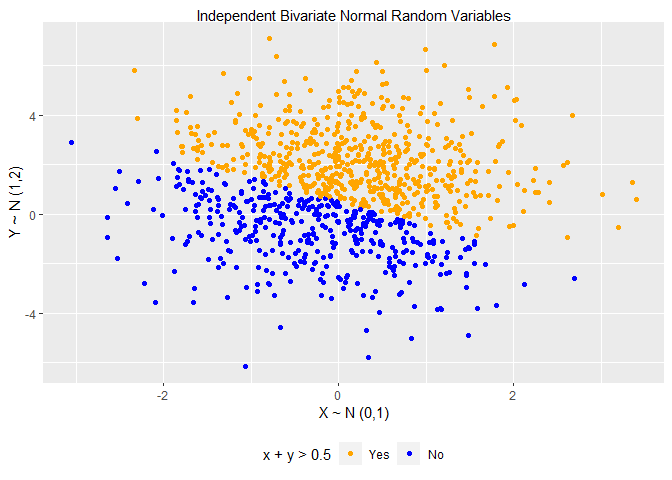
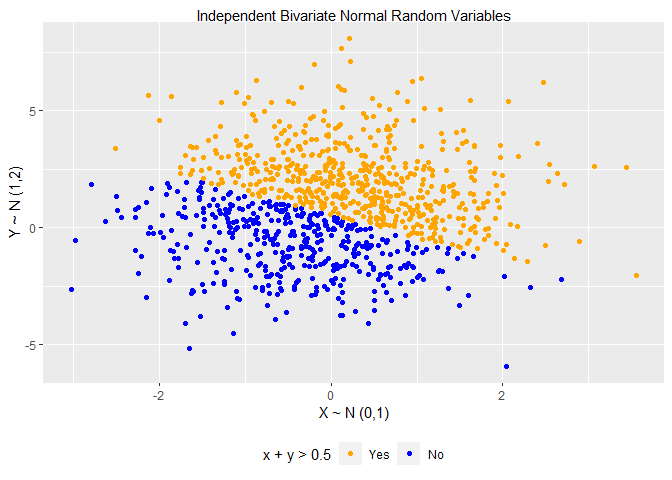
git add *

diff --git a/pubh7462_hw1_shen0464.md b/pubh7462_hw1_shen0464.md
@@ -1,4 +1,4 @@
-PubH 7462 Homework2 Problem1
+PubH 7462 Homework1 Problem1
 ================
 You Shan Shen
 2022/2/2
@@ -63,10 +63,10 @@ str(Normal_random_sample)
 ```
 
     ## tibble [1,000 x 4] (S3: tbl_df/tbl/data.frame)
-    ##  $ X            : num [1:1000] -1.896 -0.601 -0.627 -1.33 -0.124 ...
-    ##  $ Y            : num [1:1000] -0.982 0.625 -0.64 1.903 0.747 ...
-    ##  $ sum_indicator: chr [1:1000] "False" "False" "False" "True" ...
-    ##  $ x + y > 0.5  : Factor w/ 2 levels "Yes","No": 2 2 2 1 1 2 2 2 1 1 ...
+    ##  $ X            : num [1:1000] 0.908 -0.857 -1.199 0.542 0.352 ...
+    ##  $ Y            : num [1:1000] 0.353 3.082 1.406 0.144 3.087 ...
+    ##  $ sum_indicator: chr [1:1000] "True" "True" "False" "True" ...
+    ##  $ x + y > 0.5  : Factor w/ 2 levels "Yes","No": 1 1 2 1 1 1 2 1 1 1 ...
 
 ``` r
 ggplot(Normal_random_sample, aes(x = X , y = Y)) +
